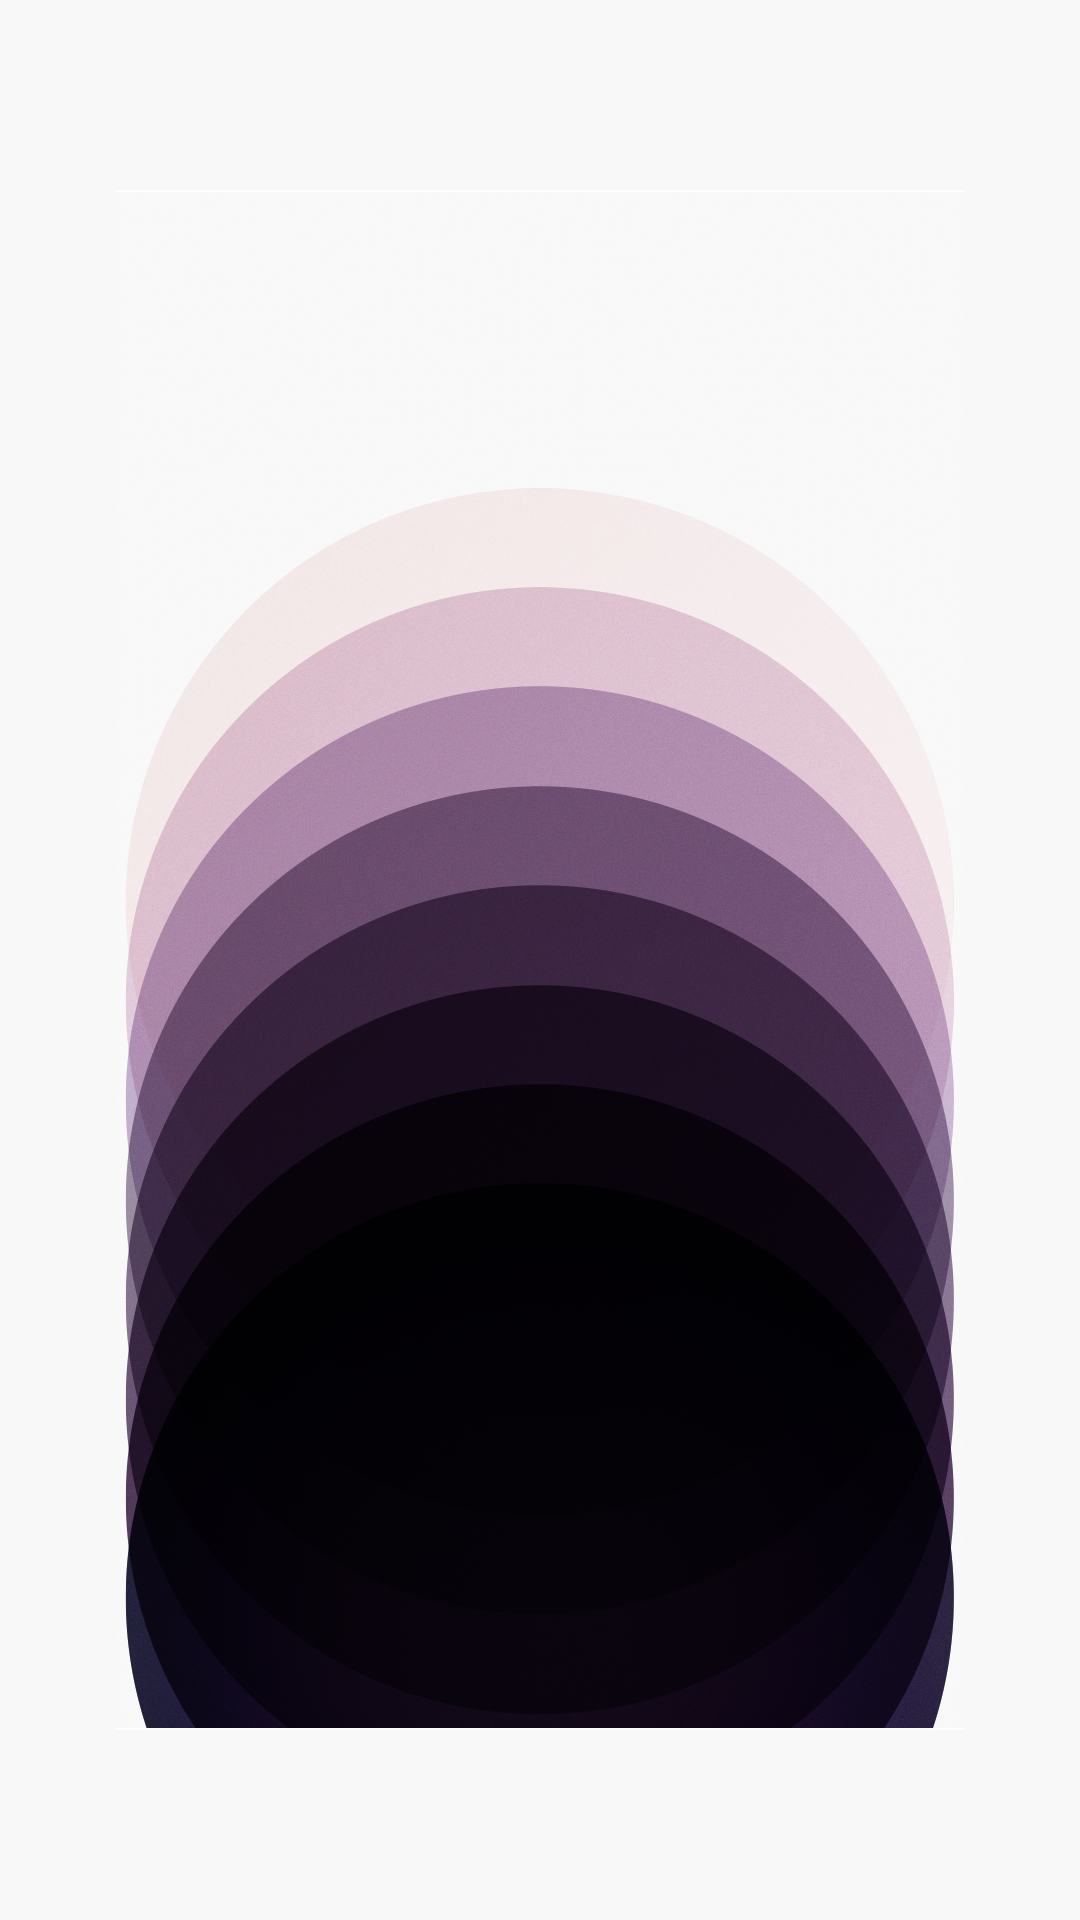
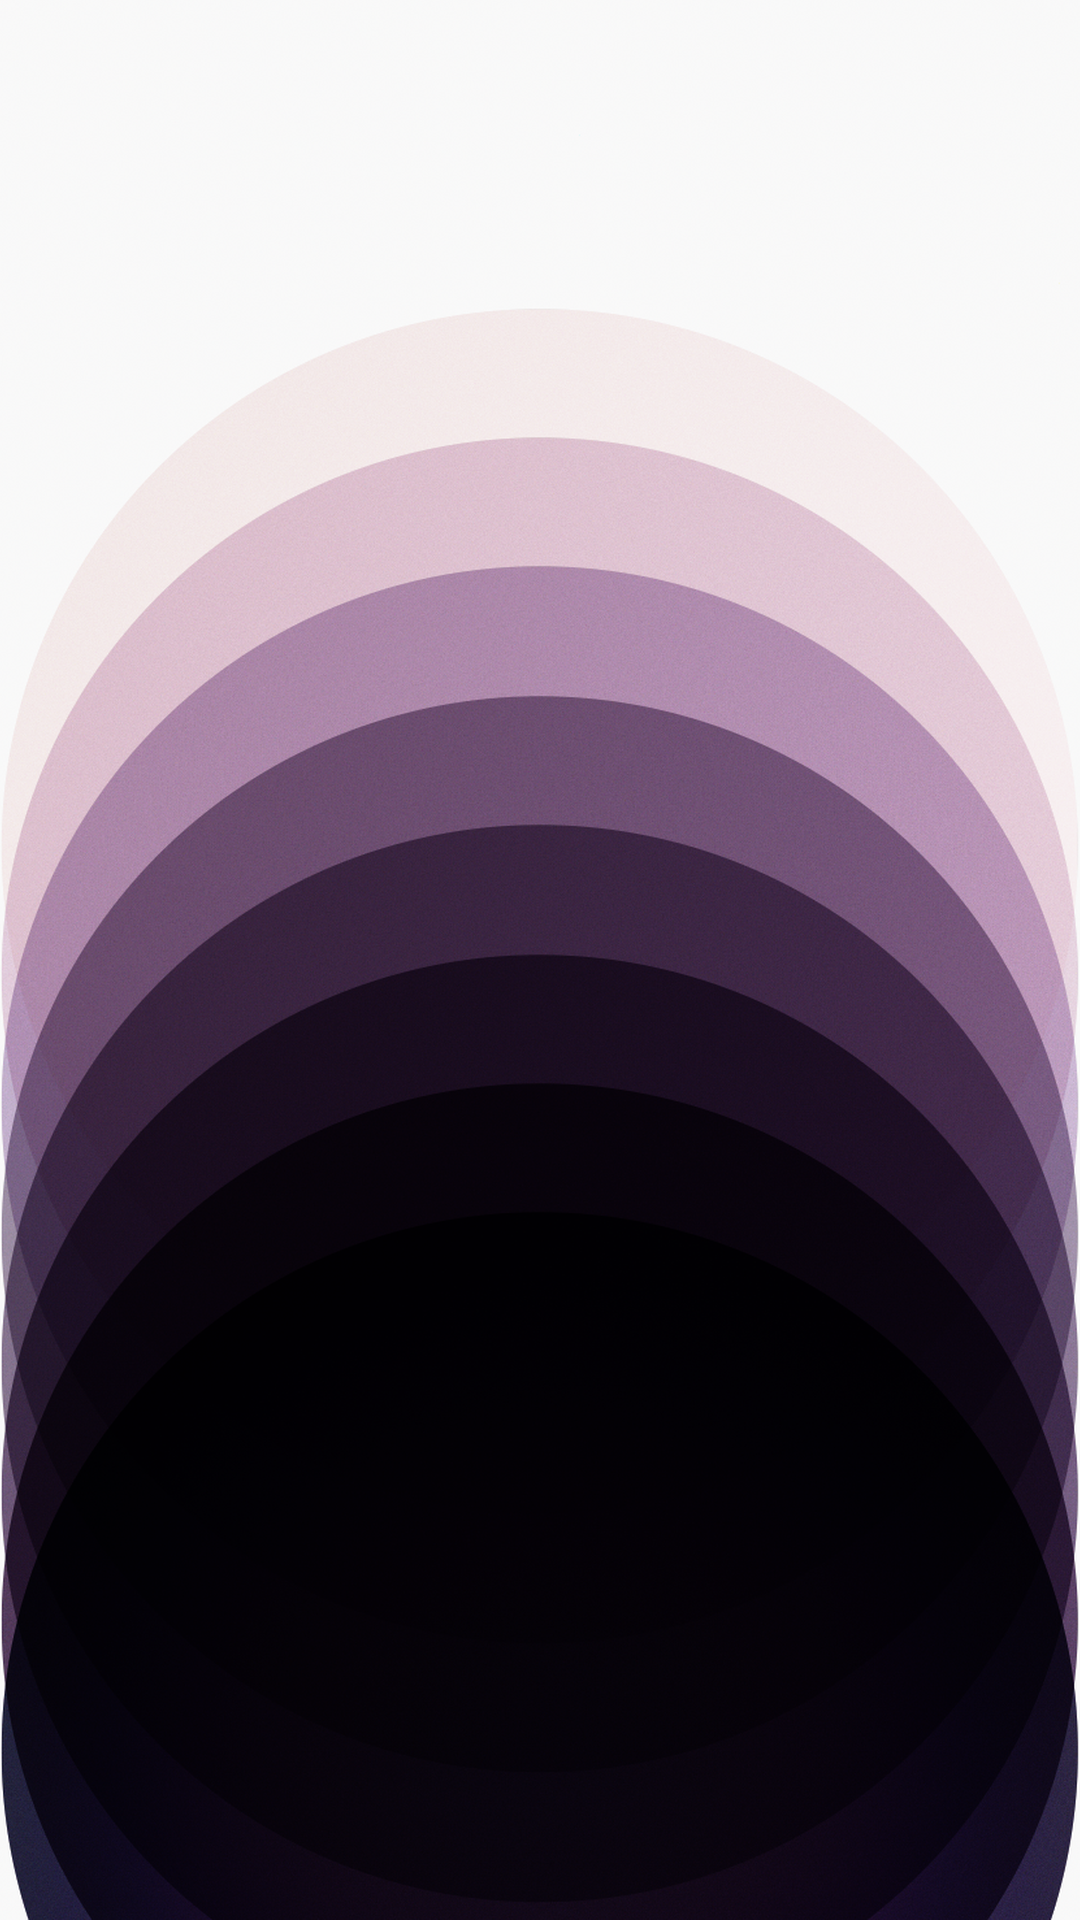
.

diff --git a/py/capture_art.py b/py/capture_art.py
@@ -6,25 +6,38 @@ import os
 import time
 
 URL = "https://timeforms.app"
-# Target the inner div containing the artwork, escaping special characters
-# SELECTOR = "div.absolute.inset-\[24px\].overflow-hidden"
-SELECTOR = "#root > div.w-full.min-h-screen.flex.items-center.justify-center.p-8.transition-colors.duration-1000.relative > div.absolute.top-1\\/2.left-1\\/2.-translate-y-1\\/2.-translate-x-1\\/2.w-full.flex.justify-center.items-center > div > div"
+# Selector for the main artwork container (used to wait for page readiness)
+ARTWORK_FRAME_SELECTOR = "#root > div.w-full.min-h-screen.flex.items-center.justify-center.p-8.transition-colors.duration-1000.relative > div.absolute.top-1\\/2.left-1\\/2.-translate-y-1\\/2.-translate-x-1\\/2.w-full.flex.justify-center.items-center > div > div"
+# Selector for the time simulation slider track
+SLIDER_TRACK_SELECTOR = 'span.relative.flex.touch-none.select-none.items-center.w-full.slider-custom'
+TIME_DISPLAY_SPAN_SELECTOR = 'span:has-text("Time Display")'
+
 OUTPUT_WIDTH = 1080
 OUTPUT_HEIGHT = 1920
-OUTPUT_FILENAME = "timeform_art_v6.png" # Changed filename
-PAGE_LOAD_TIMEOUT = 90000  # 90 seconds
-SELECTOR_TIMEOUT = 60000 # 60 seconds
+OUTPUT_FILENAME = "timeform_art_v11.png" # Changed filename
+PAGE_LOAD_TIMEOUT = 90000
+SELECTOR_TIMEOUT = 60000
+
+# --- Configuration ---
+# Set hour to simulate (0-23), or None to use current time
+SIMULATE_HOUR = 14 # Example: Simulate 2 PM
 
 # Crop values
-CROP_LEFT = 115
-CROP_RIGHT_MARGIN = 115
-CROP_TOP = 190
-CROP_BOTTOM_MARGIN = 190
+CROP_LEFT = 110
+CROP_RIGHT_MARGIN = 110
+CROP_TOP = 192
+CROP_BOTTOM_MARGIN = 192
 
-# Background color for the final canvas (White)
-BG_COLOR = (248, 248, 249)
+# Background color for the final canvas - Will be set dynamically
+# BG_COLOR = (248, 248, 249)
 
-# CSS to hide UI elements before screenshot
+# Zoom factor
+ZOOM_FACTOR = 1.15
+
+# Color comparison tolerance (sum of absolute differences in R, G, B)
+COLOR_TOLERANCE = 30
+
+# CSS - Always hide slider controls
 HIDE_CSS = """
   /* Main UI elements outside the frame */
   .fixed.top-8.left-8.text-2xl,
@@ -39,6 +52,12 @@ HIDE_CSS = """
   /* Optional: Ensure the main container takes full space if needed */
   /* body, #root { overflow: hidden; } */
 """
+
+# Helper function for color difference
+def color_diff(color1, color2):
+    if not color1 or not color2 or len(color1) < 3 or len(color2) < 3:
+        return float('inf') # Max difference if colors are invalid
+    return sum(abs(c1 - c2) for c1, c2 in zip(color1[:3], color2[:3]))
 
 async def main():
     print("Launching browser...")
@@ -56,16 +75,13 @@ async def main():
                  print(f"Failed to launch Firefox: {e2}")
                  print("Please ensure Playwright browsers are installed ('playwright install')")
                  return
-
         if not browser:
             return
 
-        # Set viewport closer to target aspect ratio
         page = await browser.new_page(viewport={"width": OUTPUT_WIDTH, "height": OUTPUT_HEIGHT})
 
         print(f"Navigating to {URL}...")
         try:
-            # Using 'domcontentloaded' might be faster if networkidle is too slow/unreliable
             await page.goto(URL, timeout=PAGE_LOAD_TIMEOUT, wait_until='domcontentloaded')
             print("Page navigation complete (DOM loaded).")
         except Exception as e:
@@ -74,52 +90,87 @@ async def main():
             return
 
         print("Waiting briefly for initial script execution...")
-        await asyncio.sleep(1) # Wait for JS to potentially modify the DOM initially
+        await asyncio.sleep(2) # Slightly longer wait for dynamic elements like slider
+
+        # # --- Click Time Display Toggle --- 
+        # try:
+        #     print("Attempting to click 'Time Display' toggle...")
+        #     # Find the span, then find its parent div, then find the button within that div
+        #     time_display_span = page.locator(TIME_DISPLAY_SPAN_SELECTOR)
+        #     # Using XPath to find the button sibling reliably
+        #     toggle_button = time_display_span.locator("xpath=./following-sibling::button")
+        #     await toggle_button.wait_for(state="visible", timeout=SELECTOR_TIMEOUT)
+        #     await toggle_button.click()
+        #     print("'Time Display' toggle clicked.")
+        #     await asyncio.sleep(0.5) # Brief pause after click
+        # except Exception as e:
+        #     print(f"Warning: Could not find or click 'Time Display' toggle: {e}")
+        # # --- End Click Time Display Toggle ---
+
+        # --- Time Simulation --- 
+        if SIMULATE_HOUR is not None and 0 <= SIMULATE_HOUR <= 23:
+            print(f"Simulating time: {SIMULATE_HOUR}:00")
+            try:
+                slider_track = page.locator(SLIDER_TRACK_SELECTOR)
+                await slider_track.wait_for(state="visible", timeout=SELECTOR_TIMEOUT)
+                bbox = await slider_track.bounding_box()
+
+                if bbox:
+                    # Calculate click position
+                    click_x = bbox['x'] + (SIMULATE_HOUR / 23) * bbox['width']
+                    click_y = bbox['y'] + bbox['height'] / 2
+                    print(f"Clicking slider track at ({click_x:.2f}, {click_y:.2f})")
+                    await page.mouse.click(click_x, click_y)
+                    print("Waiting 1 second for time simulation update...")
+                    await asyncio.sleep(1) # Wait for visual update
+                else:
+                    print("Error: Could not get slider track bounding box.")
+
+            except Exception as e:
+                print(f"Error interacting with slider: {e}")
+                # Continue anyway, might just use current time
+        else:
+            print("Using current time (simulation disabled or invalid hour).")
 
         print("Injecting CSS to hide UI elements...")
+        # Use the static HIDE_CSS
         try:
             await page.add_style_tag(content=HIDE_CSS)
             print("CSS injected.")
         except Exception as e:
             print(f"Error injecting CSS: {e}")
-            # Continue anyway, maybe the elements aren't present
 
-        print(f"Waiting for target element selector '{SELECTOR}'...")
+        print(f"Waiting for artwork frame selector '{ARTWORK_FRAME_SELECTOR}'...")
+        # We still wait for the main artwork frame to ensure page is generally ready
         try:
-            element = await page.wait_for_selector(SELECTOR, timeout=SELECTOR_TIMEOUT, state='visible')
-            print("Target element found.")
+            await page.locator(ARTWORK_FRAME_SELECTOR).wait_for(state='visible', timeout=SELECTOR_TIMEOUT)
+            print("Artwork frame found.")
         except Exception as e:
-            print(f"Error finding target element selector or timeout exceeded: {e}")
+            print(f"Error finding artwork frame selector or timeout exceeded: {e}")
             await browser.close()
             return
 
-        # Give extra time for animations/rendering within the element to settle
-        print("Waiting for artwork rendering...")
-        # await asyncio.sleep(10) # Increased wait time after finding element
+        # User removed wait and added scroll - keeping scroll commented for now
+        # await asyncio.sleep(10)
+        # await page.evaluate("window.scrollBy(0, 1000);")
 
-        # scroll down a bit
-        await page.evaluate("window.scrollBy(0, 1000);")
-
-        print("Taking screenshot of the element...")
+        print("Taking screenshot of the page...")
         try:
-            # screenshot_bytes = await element.screenshot()
-            # take screenshot of the page instead and crop it later
             screenshot_bytes = await page.screenshot()
             print("Screenshot taken.")
         except Exception as e:
             print(f"Error taking screenshot: {e}")
             await browser.close()
             return
-
+        
         await browser.close()
         print("Browser closed.")
 
         print("Processing image...")
         img = Image.open(io.BytesIO(screenshot_bytes))
         img_w, img_h = img.size
-        print(f"Original screenshot size: {img_w}x{img_h}")
+        print(f"Original page screenshot size: {img_w}x{img_h}")
 
-        # --- Image Cropping Logic --- 
         crop_box = (
             CROP_LEFT,
             CROP_TOP,
@@ -136,18 +187,54 @@ async def main():
         cropped_img = img.crop(crop_box)
         cropped_w, cropped_h = cropped_img.size
         print(f"Cropped image size: {cropped_w}x{cropped_h}")
-        # --- End Cropping Logic ---
 
-        # Create a new blank image with the specified background color
-        background = Image.new('RGB', (OUTPUT_WIDTH, OUTPUT_HEIGHT), BG_COLOR)
-        print(f"Created background canvas: {OUTPUT_WIDTH}x{OUTPUT_HEIGHT} with color {BG_COLOR}")
+        # --- Get Pixel Colors for Alignment & Background ---
+        top_left_color = (255, 255, 255) # Default fallback
+        top_center_color = (255, 255, 255) # Default fallback
+        dynamic_bg_color = top_left_color # Use top-left for background
 
-        # Calculate position to paste the *cropped* image in the center
-        offset_x = (OUTPUT_WIDTH - cropped_w) // 2
-        offset_y = (OUTPUT_HEIGHT - cropped_h) // 2
+        try:
+            # Get top-left pixel (and use for background)
+            top_left_color_raw = cropped_img.getpixel((0, 0))
+            top_left_color = top_left_color_raw[:3] if len(top_left_color_raw) == 4 else top_left_color_raw
+            dynamic_bg_color = top_left_color # Update background color
+            print(f"Using dynamic background color from top-left pixel: {dynamic_bg_color}")
 
-        print(f"Pasting cropped image onto background at offset: ({offset_x}, {offset_y})")
-        background.paste(cropped_img, (offset_x, offset_y))
+            # Get top-center pixel
+            center_x = cropped_w // 2
+            top_center_color_raw = cropped_img.getpixel((center_x, 0))
+            top_center_color = top_center_color_raw[:3] if len(top_center_color_raw) == 4 else top_center_color_raw
+            print(f"Top-center pixel color: {top_center_color}")
+
+        except Exception as e:
+            print(f"Warning: Could not get pixel colors: {e}. Using fallback white background and default alignment.")
+        # --- End Pixel Color Logic ---
+
+        # --- Zoom --- 
+        scaled_w = int(cropped_w * ZOOM_FACTOR)
+        scaled_h = int(cropped_h * ZOOM_FACTOR)
+        print(f"Scaling cropped image by {ZOOM_FACTOR}x to: {scaled_w}x{scaled_h}")
+        scaled_img = cropped_img.resize((scaled_w, scaled_h), Image.Resampling.LANCZOS)
+
+        # Create background canvas using dynamic color
+        background = Image.new('RGB', (OUTPUT_WIDTH, OUTPUT_HEIGHT), dynamic_bg_color)
+        print(f"Created background canvas: {OUTPUT_WIDTH}x{OUTPUT_HEIGHT} with color {dynamic_bg_color}")
+
+        # --- Conditional Alignment with Tolerance --- 
+        offset_x = (OUTPUT_WIDTH - scaled_w) // 2
+        diff = color_diff(top_left_color, top_center_color)
+        print(f"Color difference (sum of abs RGB diff): {diff}")
+
+        if diff <= COLOR_TOLERANCE:
+            print(f"Color difference ({diff}) <= tolerance ({COLOR_TOLERANCE}). Aligning to bottom.")
+            offset_y = OUTPUT_HEIGHT - scaled_h # Align bottom
+        else:
+            print(f"Color difference ({diff}) > tolerance ({COLOR_TOLERANCE}). Aligning to top.")
+            offset_y = 0 # Align top
+        # --- End Conditional Alignment ---
+
+        print(f"Pasting scaled image onto background at offset: ({offset_x}, {offset_y})")
+        background.paste(scaled_img, (offset_x, offset_y))
 
         background.save(OUTPUT_FILENAME)
         print(f"Image saved as {OUTPUT_FILENAME} ({OUTPUT_WIDTH}x{OUTPUT_HEIGHT})")
